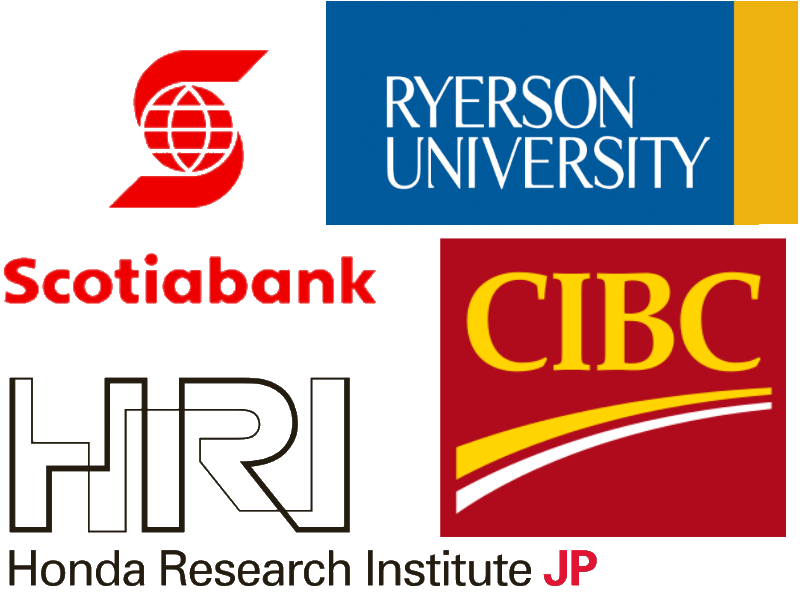
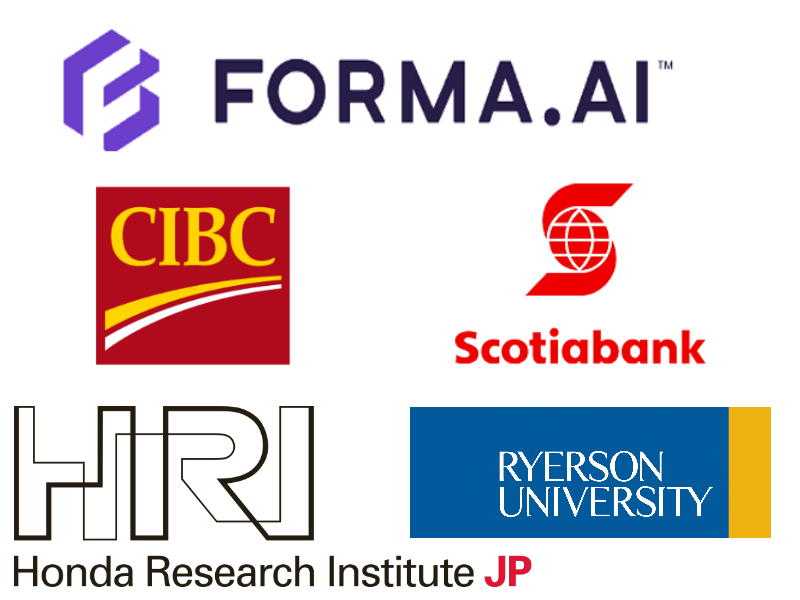
add forma and url shortener

diff --git a/index.html b/index.html
@@ -51,7 +51,7 @@
       </ul>
     </div>
     <div class=sidebar-footer>
-      <span><p class="copyright"><small>&copy; 2017-2021 Adam Adair</small></p></span>
+      <span><p class="copyright"><small>&copy; 2017-2023 Adam Adair</small></p></span>
     </div>
   </div>
   <!-- Introduction -->
@@ -87,11 +87,35 @@
   <section id="experience" class="experience">
     <h1>Work Experience</h1>
     <hr/>
+    <!-- Forma.ai -->
+    <div class="card">
+      <div class="card-head">
+        <a href="https://www.forma.ai/" target="_blank"><img id="forma" class="logo" src="img/forma.png" alt="Forma.ai Logo"/></a>
+        <p id="date"><b>Backend Engineer</b><br/>September 2021 - Present</p>
+      </div>
+      <div class="card-details">
+        <p>Working in the platform team to develop, scale and maintain the backend of the application. Creating ETLs and new pipelines to migrate to the databricks platform. Creating and updating API endpoints and working on the commission calculation engine. </p>
+        <span class="badge badge-pill badge-info purple">Python</span>
+        <span class="badge badge-pill badge-info purple">SQL</span>
+        <span class="badge badge-pill badge-info purple">React</span>
+        <span class="badge badge-pill badge-info purple">Bash</span>
+        <span class="badge badge-pill badge-info">Spark</span>
+        <span class="badge badge-pill badge-info">Databricks</span>
+        <span class="badge badge-pill badge-info">AWS</span>
+        <span class="badge badge-pill badge-info">Docker</span>
+        <span class="badge badge-pill badge-info">ETL</span>
+        <span class="badge badge-pill badge-info">PostgreSQL</span>
+        <span class="badge badge-pill badge-info">REST APIs</span>
+        <span class="badge badge-pill badge-info">Celery</span>
+        <span class="badge badge-pill badge-info">Git</span>
+        <span class="badge badge-pill badge-info">Github Actions</span>
+      </div>
+    </div>
     <!-- Scotiabank -->
     <div class="card">
       <div class="card-head">
         <a href="https://www.scotiabank.com/ca/en/personal.html" target="_blank"><img id="scotia" class="logo" src="img/scotia.png" alt="Scotiabank Logo"/></a>
-        <p id="date"><b>Data Engineer</b><br/>June 2019 - Present</p>
+        <p id="date"><b>Data Engineer</b><br/>June 2019 - August 2021</p>
       </div>
       <div class="card-details">
         <p>Working in the Data Labs in all aspects of a system development life cycle within the development team. Working to develop tools to increase productivity, reduce manual work with automation tools and design, develop, test and operationalize RDBMS and big data solutions in support of the strategic goals of the Data Office.</p>
@@ -131,7 +155,7 @@
       <div class="card-head">
         <a href="http://www.jp.honda-ri.com/english/" target="_blank"><img id="honda" class="logo" src="img/HRI.png" alt="Honda Logo"/></a>
         
-        <p id="date"><b>Vision Labs Research Co-op</b><br>September 2017- September 2018</p>
+        <p id="date"><b>Vision Labs Research Co-op</b><br>September 2017- August 2018</p>
       </div>
       <div class="card-details">
         <p>Responsible for the development of computer programs for experiments, data analysis and visualization, as well as designing, performing and summarizing experiments on human subjects to test hypotheses. Writing documents and reports on developed programs and obtained experimental results.</p>
@@ -216,6 +240,61 @@
         <span class="badge badge-pill badge-info">Recursive Division</span>
         <span class="badge badge-pill badge-info">Depth-First Search</span>
         <span class="badge badge-pill badge-info">Bredth-First Search</span>
+      </div>
+    </div>
+    <!-- URL Shortener -->
+    <div class="card">
+      <div class="card-head-project">
+        <div class="icon-container">
+          <img id="url-shortener-icon" class="url-shortener-icon project-icon" src="img/url-shortener/logo.ico" alt="URL Shortener icon" />
+          <h3>URL Shortener</h3>
+          <p>Django Application</p>
+        </div>
+        <div class="carousel-container">
+          <div id="url-shortener-carousel" class="carousel slide project-img" data-ride="carousel">
+          <ol class="carousel-indicators">
+            <li data-target="#url-shortener-carousel" data-slide-to="0" class="active"></li>
+            <li data-target="#url-shortener-carousel" data-slide-to="1"></li>
+            <li data-target="#url-shortener-carousel" data-slide-to="2"></li>
+            <li data-target="#url-shortener-carousel" data-slide-to="3"></li>
+          </ol>
+          <div class="carousel-inner">
+            <div class="carousel-item active">
+              <img class="d-block w-100" src="img/url-shortener/home.JPG" alt="First slide">
+            </div>
+            <div class="carousel-item">
+              <img class="d-block w-100" src="img/url-shortener/shortened.JPG" alt="Second slide">
+            </div>
+            <div class="carousel-item">
+              <img class="d-block w-100" src="img/url-shortener/confirmation.JPG" alt="Third slide">
+            </div>
+            <div class="carousel-item">
+              <img class="d-block w-100" src="img/url-shortener/deleted.JPG" alt="Fourth slide">
+            </div>
+            <a class="carousel-control-prev" href="#url-shortener-carousel" role="button" data-slide="prev">
+              <span class="carousel-control-prev-icon" aria-hidden="true"></span>
+              <span class="sr-only">Previous</span>
+            </a>
+            <a class="carousel-control-next" href="#url-shortener-carousel" role="button" data-slide="next">
+              <span class="carousel-control-next-icon" aria-hidden="true"></span>
+              <span class="sr-only">Next</span>
+            </a>
+          </div>
+        </div>
+        </div>
+      </div>
+      <div class="card-details-project">
+        <p class="description">Simple URL shortener that takes a URL and creates a new link with fewer characters. The user is given a secret key that can be used to delete the short url at a later date. Short URLs expire after 24hours and are deleted from the database using a scheduled task. Ideally this would be used with a shorter domain name.  </p>
+        <a class="btn btn-primary demo" target="_blank" href="https://adamadair.pythonanywhere.com/">Live Demo</a>
+        <span class="badge badge-pill badge-success">Django</span>
+        <span class="badge badge-pill badge-success">MySQL</span>
+        <span class="badge badge-pill badge-success">Javascript</span>
+        <span class="badge badge-pill badge-success">Bootstrap</span>
+        <span class="badge badge-pill badge-success">HTML</span>
+        <span class="badge badge-pill badge-success">CSS</span>
+        <span class="badge badge-pill badge-success">JSON</span>
+        <span class="badge badge-pill badge-info">REST API</span>
+        <span class="badge badge-pill badge-info">PythonAnywhere</span>
       </div>
     </div>  
     <!-- Sudoku Racers -->

diff --git a/styles/src/experience.css b/styles/src/experience.css
@@ -15,6 +15,12 @@
   padding: 2rem 0 0.5rem 0;
 }
 
+#forma {
+  width: 20rem;
+  height: auto;
+  margin-top: 2rem;
+}
+
 #scotia {
   width: 10rem;
   height: auto;
